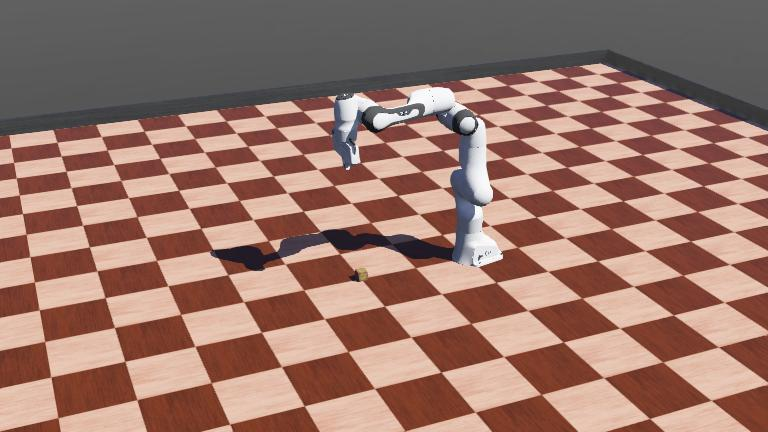
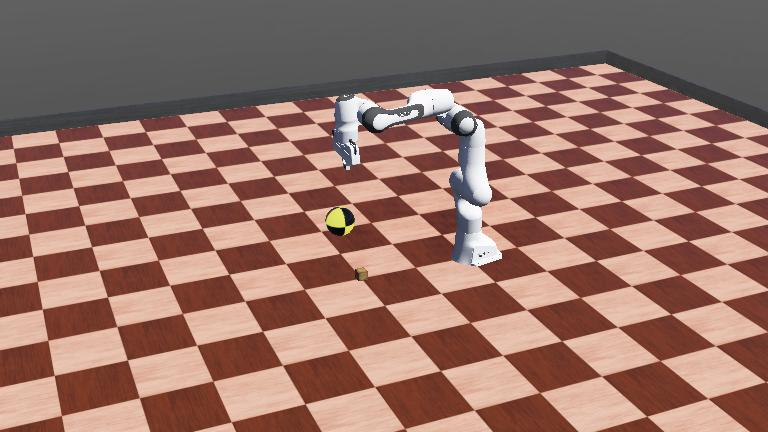
Added a panda controller, which uses inverse kinematics to track target (inaccurate)

diff --git a/controllers/panda_control_test_2/panda_control_test_2.py b/controllers/panda_control_test_2/panda_control_test_2.py
@@ -1,0 +1,104 @@
+# Based on ABB arm
+"""Demonstration of inverse kinematics using the "ikpy" Python module."""
+
+import sys
+import tempfile
+import numpy as np
+try:
+    import ikpy
+    from ikpy.chain import Chain
+except ImportError:
+    sys.exit('The "ikpy" Python module is not installed. '
+             'To run this sample, please upgrade "pip" and install ikpy with this command: "pip install ikpy"')
+
+import math
+from controller import Supervisor
+
+if ikpy.__version__[0] < '3':
+    sys.exit('The "ikpy" Python module version is too old. '
+             'Please upgrade "ikpy" Python module to version "3.0" or newer with this command: "pip install --upgrade ikpy"')
+
+
+# Initialize the Webots Supervisor.
+supervisor = Supervisor()
+timeStep = int(4 * supervisor.getBasicTimeStep())
+
+# Create the arm chain from the URDF
+filename = None
+with tempfile.NamedTemporaryFile(suffix='.urdf', delete=False) as file:
+    filename = file.name
+    file.write(supervisor.getUrdf().encode('utf-8'))
+pandaChain = Chain.from_urdf_file(filename, active_links_mask=[False, False, True, True, True, True,True, True, True, False, False])
+
+# List all parsed links to verify their index, name, and type
+for index, link in enumerate(pandaChain.links):
+    print(f"Index {index}: {link.name} (Type: {link.joint_type})")
+
+# Initialize the arm motors and encoders.
+motors = []
+for link in pandaChain.links:
+    if 'panda_joint' in link.name:
+        motor = supervisor.getDevice(link.name)
+        motor.setVelocity(1.0)
+        position_sensor = motor.getPositionSensor()
+        position_sensor.enable(timeStep)
+        motors.append(motor)
+
+# Get the arm and target nodes.
+target = supervisor.getFromDef('TARGET')
+arm = supervisor.getSelf()
+
+# Loop 1: Move the arm hand to the target.
+print('Move the yellow and black sphere to move the arm...')
+while supervisor.step(timeStep) != -1:
+    # Get the absolute postion of the target and the arm base.
+    targetPosition = target.getPosition()
+    armPosition = arm.getPosition()
+
+    # Compute the position of the target relatively to the arm.
+    
+    x = targetPosition[0] - armPosition[0]
+    y = targetPosition[1] - armPosition[1]
+    z = targetPosition[2] - armPosition[2]
+    
+    print("Target in robot frame:", [x,y,z])
+    # First create an empty array of zeros to match the number of parsed links
+    initial_position = [0]*len(pandaChain.links)
+    
+    # Build a lookup map of active motor positions by device name
+    sensor_values = {m.getName(): m.getPositionSensor().getValue() for m in motors}
+
+    # Populate the chain positions dynamically without hardcoded index additions
+    for idx, link in enumerate(pandaChain.links):
+        if link.name in sensor_values:
+            raw_val = sensor_values[link.name]
+            
+            # Fallback in case Webots returns NaN before the sensor fully initializes
+            if math.isnan(raw_val):
+                raw_val = 0.0
+
+            # Check if ikpy successfully parsed physical bounds for this link
+            if link.bounds is not None:
+                # Force the sensor value strictly inside the [lower, upper] mathematical bounds
+                lower_bound, upper_bound = link.bounds
+                clamped_val = max(lower_bound, min(raw_val, upper_bound))
+            else:
+                clamped_val = raw_val
+
+            initial_position[idx] = clamped_val
+    # Execute the inverse kinematics
+    ikResults = pandaChain.inverse_kinematics([x, y, z], initial_position=initial_position)
+
+    # Recalculate the inverse kinematics of the arm if necessary.
+    position = pandaChain.forward_kinematics(ikResults)
+    squared_distance = (position[0, 3] - x)**2 + (position[1, 3] - y)**2 + (position[2, 3] - z)**2
+    if math.sqrt(squared_distance) > 0.03:
+        ikResults = pandaChain.inverse_kinematics([x, y, z], initial_position=initial_position)
+
+    # Build a lookup map of actual motor devices by name
+    motor_dict = {m.getName(): m for m in motors}
+
+    # Actuate the arm motors dynamically based on URDF link names
+    for idx, link in enumerate(pandaChain.links):
+        if link.name in motor_dict:
+            motor_dict[link.name].setPosition(ikResults[idx])
